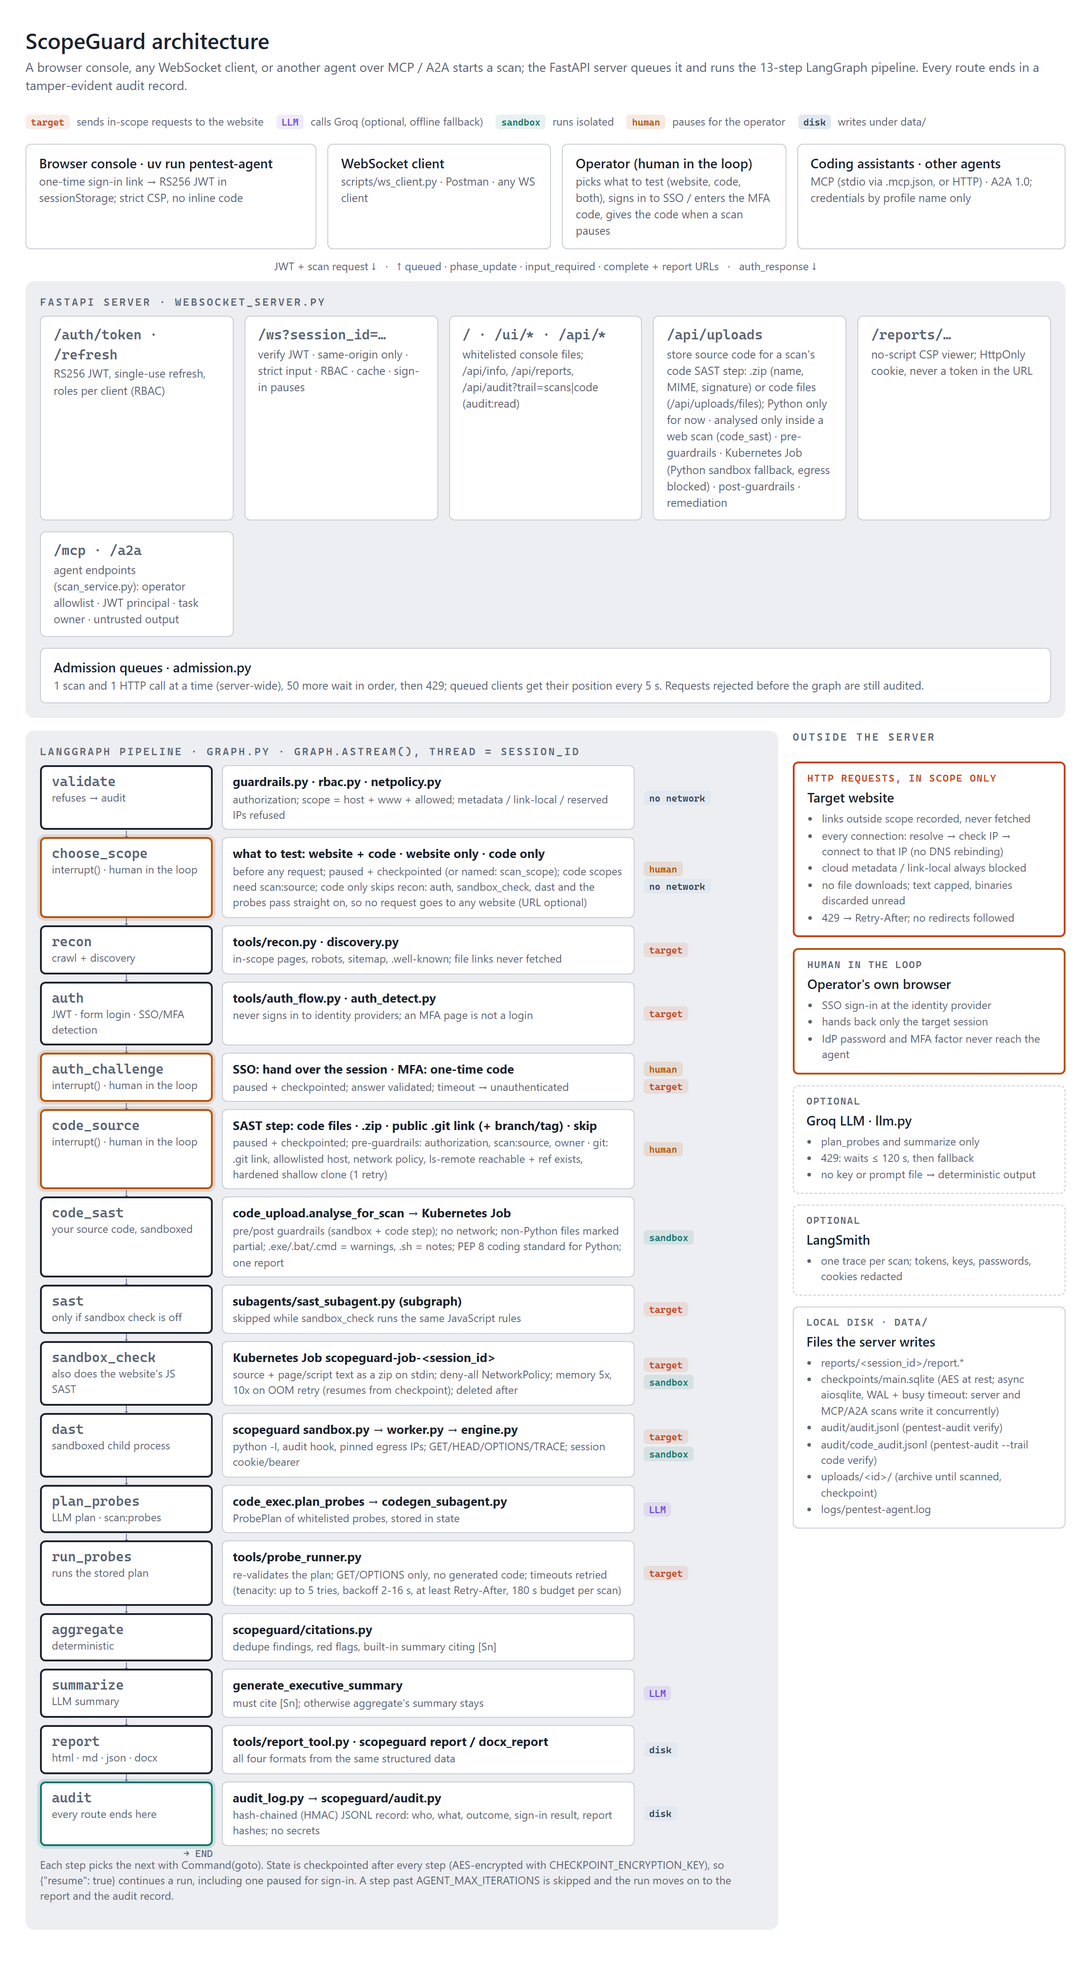
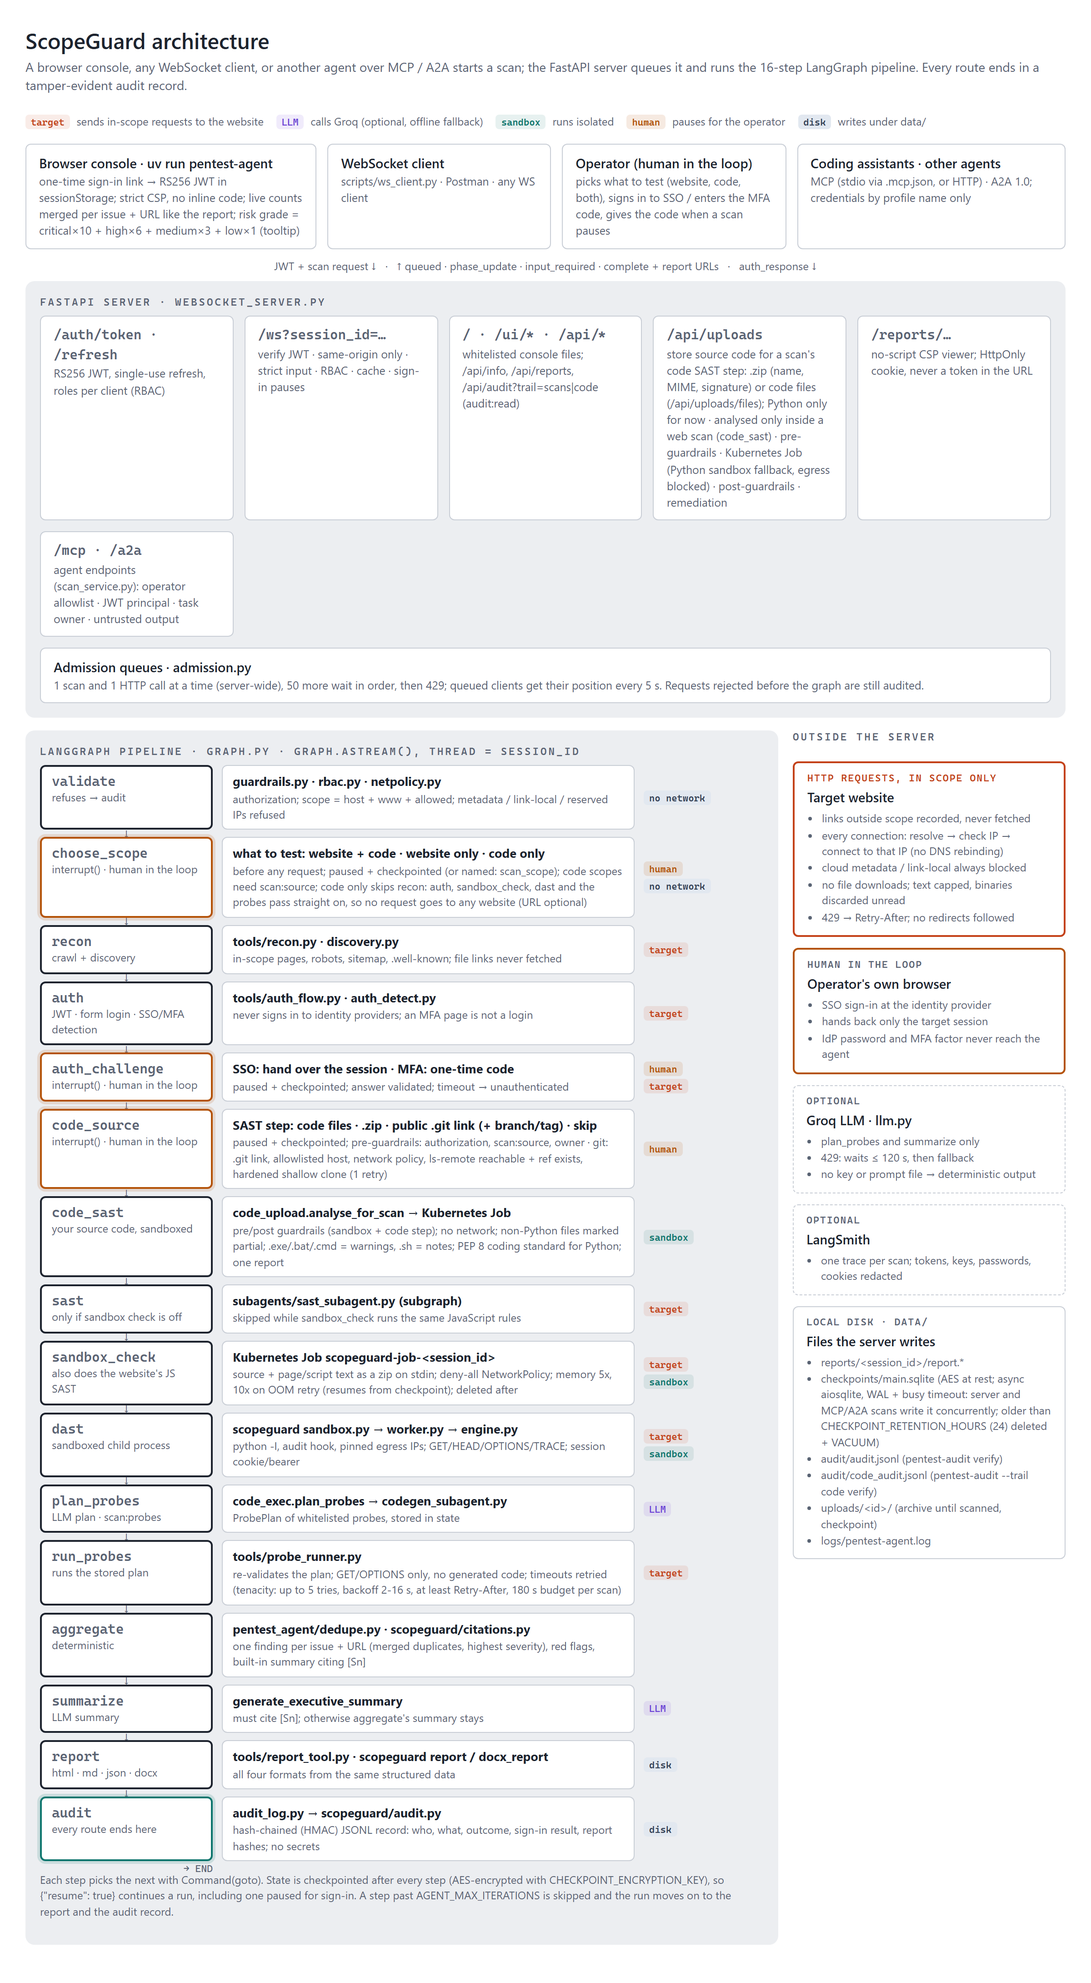
Delete old checkpoints periodically to keep the database small
The checkpoint database grew without limit (151 MB, 82 scan threads, 66
of them older than a day).

- cleanup_checkpoints deletes every scan thread whose newest checkpoint
  is older than CHECKPOINT_RETENTION_HOURS (24; 0 keeps everything), the
  pending writes of deleted threads, the sub-agent database's old threads
  and old code-check checkpoint files, then compacts the file (VACUUM)
- the age comes from the checkpoint id (UUIDv6), so it works on
  encrypted checkpoints without decrypting anything
- the server runs it at start and every CHECKPOINT_CLEANUP_INTERVAL_MINUTES
  (60); each MCP / A2A scan offers a round too (throttled per process,
  for the stdio MCP server), never touching a running scan; a failed
  cleanup is logged and never breaks a scan
- reports and audit records are kept; a deleted scan cannot be resumed
- tests: uuid6 time, old/protected/recent threads, compaction, retention 0,
  throttling, code-check files
- docs: README, CLAUDE.md, architecture diagram (+ the risk-grade and
  dedupe notes on the architecture and scan-story pages), .env.example

diff --git a/docs/src/architecture.html b/docs/src/architecture.html
@@ -58,7 +58,7 @@
 </head>
 <body>
   <h1>ScopeGuard architecture</h1>
-  <p class="sub">A browser console, any WebSocket client, or another agent over MCP / A2A starts a scan; the FastAPI server queues it and runs the 13-step LangGraph pipeline. Every route ends in a tamper-evident audit record.</p>
+  <p class="sub">A browser console, any WebSocket client, or another agent over MCP / A2A starts a scan; the FastAPI server queues it and runs the 16-step LangGraph pipeline. Every route ends in a tamper-evident audit record.</p>
   <div class="legend">
     <span><i class="tag web">target</i> sends in-scope requests to the website</span>
     <span><i class="tag llm">LLM</i> calls Groq (optional, offline fallback)</span>
@@ -68,7 +68,7 @@
   </div>
 
   <div class="row clients">
-    <div class="box"><b>Browser console · uv run pentest-agent</b><span>one-time sign-in link → RS256 JWT in sessionStorage; strict CSP, no inline code</span></div>
+    <div class="box"><b>Browser console · uv run pentest-agent</b><span>one-time sign-in link → RS256 JWT in sessionStorage; strict CSP, no inline code; live counts merged per issue + URL like the report; risk grade = critical×10 + high×6 + medium×3 + low×1 (tooltip)</span></div>
     <div class="box"><b>WebSocket client</b><span>scripts/ws_client.py · Postman · any WS client</span></div>
     <div class="box"><b>Operator (human in the loop)</b><span>picks what to test (website, code, both), signs in to SSO / enters the MFA code, gives the code when a scan pauses</span></div>
     <div class="box"><b>Coding assistants · other agents</b><span>MCP (stdio via .mcp.json, or HTTP) · A2A 1.0; credentials by profile name only</span></div>
@@ -141,7 +141,7 @@
         <div class="tags"><i class="tag web">target</i></div>
 
         <div class="node"><span class="t">aggregate</span><span>deterministic</span></div>
-        <div class="mod"><b>scopeguard/citations.py</b><span>dedupe findings, red flags, built-in summary citing [Sn]</span></div>
+        <div class="mod"><b>pentest_agent/dedupe.py · scopeguard/citations.py</b><span>one finding per issue + URL (merged duplicates, highest severity), red flags, built-in summary citing [Sn]</span></div>
         <div class="tags"></div>
 
         <div class="node"><span class="t">summarize</span><span>LLM summary</span></div>
@@ -182,7 +182,7 @@
       <div class="box disk"><div class="h">local disk · data/</div><b>Files the server writes</b>
         <ul>
           <li>reports/&lt;session_id&gt;/report.*</li>
-          <li>checkpoints/main.sqlite (AES at rest; async aiosqlite, WAL + busy timeout: server and MCP/A2A scans write it concurrently)</li>
+          <li>checkpoints/main.sqlite (AES at rest; async aiosqlite, WAL + busy timeout: server and MCP/A2A scans write it concurrently; older than CHECKPOINT_RETENTION_HOURS (24) deleted + VACUUM)</li>
           <li>audit/audit.jsonl (pentest-audit verify)</li>
           <li>audit/code_audit.jsonl (pentest-audit --trail code verify)</li>
           <li>uploads/&lt;id&gt;/ (archive until scanned, checkpoint)</li>

diff --git a/docs/src/scan-story.html b/docs/src/scan-story.html
@@ -130,7 +130,7 @@
     <div class="card"><span class="n">14</span><h3>The Prober</h3><code>run_probes</code><span class="chip c-web">visits your website</span>
       <p>Double-checks the plan, then runs those checks with reading requests only. If your site is slow to answer, it waits a little longer each time and tries again (up to 5 times); a check that still gets no answer is listed as not run. A resumed scan doesn't ask the AI again.</p></div>
     <div class="card"><span class="n">15</span><h3>The Collector</h3><code>aggregate</code>
-      <p>Gathers every finding, removes duplicates, notes what couldn't be tested, and writes a factual summary where each statement points to its source, like [S1].</p></div>
+      <p>Gathers every finding, removes duplicates (one issue on one page counts once, even when several helpers found it; the console's live counts and risk grade count the same way), notes what couldn't be tested, and writes a factual summary where each statement points to its source, like [S1].</p></div>
     <div class="card"><span class="n">16</span><h3>The AI writer</h3><code>summarize</code><span class="chip c-ai">uses the AI</span>
       <p>Drafts a friendlier executive summary, kept only if every claim cites a real finding; otherwise the Collector's summary stays.</p></div>
     <div class="card"><span class="n">17</span><h3>The Publisher</h3><code>report</code>

diff --git a/src/pentest_agent/checkpointer.py b/src/pentest_agent/checkpointer.py
@@ -13,11 +13,18 @@ sets the connection up for that:
 
 Within one connection the saver serialises its own operations (an ``asyncio.Lock``), so many
 scans can share it. Nothing in the code base opens the checkpoint database synchronously.
+
+Retention: ``cleanup_checkpoints`` deletes scan threads whose newest checkpoint is older than
+CHECKPOINT_RETENTION_HOURS (0 = keep all), at most every CHECKPOINT_CLEANUP_INTERVAL_MINUTES: the
+server runs it at start and then periodically, and every MCP / A2A scan run offers it too (the
+stdio MCP server has no lifespan). Then the file is compacted (VACUUM).
 """
 from __future__ import annotations
 
 import hashlib
 import logging
+import time
+import uuid
 from collections.abc import AsyncIterator
 from contextlib import asynccontextmanager
 from pathlib import Path
@@ -97,3 +104,120 @@ async def async_subagent_checkpointer(db_path: str | None = None) -> AsyncIterat
 
 def subagent_thread_id(session_id: str, subagent_name: str) -> str:
     return f"{session_id}::{subagent_name}"
+
+
+# ---------------------------------------------------------------------------
+# Retention: delete old checkpoints (CHECKPOINT_RETENTION_HOURS) to keep the database small
+# ---------------------------------------------------------------------------
+# 100-ns intervals between the UUID epoch (1582-10-15) and the Unix epoch.
+_UUID_EPOCH_OFFSET = 0x01B21DD213814000
+
+
+def checkpoint_time(checkpoint_id: str) -> float | None:
+    """Unix time of a LangGraph checkpoint id (a time-ordered UUIDv6), or None for another shape.
+    Works on encrypted checkpoints too: only the id is read, never the checkpoint."""
+    try:
+        value = uuid.UUID(str(checkpoint_id))
+    except ValueError:
+        return None
+    if value.version != 6:
+        return None
+    n = value.int
+    ticks = ((n >> 96) << 28) | (((n >> 80) & 0xFFFF) << 12) | ((n >> 64) & 0x0FFF)
+    return (ticks - _UUID_EPOCH_OFFSET) / 10_000_000
+
+
+def _db_bytes(db_path: str) -> int:
+    return sum(p.stat().st_size for p in Path(db_path).parent.glob(Path(db_path).name + "*") if p.is_file())
+
+
+async def prune_old_checkpoints(saver: AsyncSqliteSaver, max_age_hours: float, *,
+                                protect: frozenset[str] = frozenset()) -> int:
+    """Delete every scan thread (all its checkpoints, namespaces and pending writes) whose newest
+    checkpoint is older than ``max_age_hours``; 0 keeps everything. ``protect``: thread ids never
+    deleted (scans running right now). A deleted scan can no longer be resumed; its report and audit
+    record are kept. Returns the number of threads deleted; the file is compacted afterwards."""
+    if max_age_hours <= 0:
+        return 0
+    cutoff = time.time() - max_age_hours * 3600
+    async with saver.lock, saver.conn.execute(
+            "SELECT thread_id, MAX(checkpoint_id) FROM checkpoints GROUP BY thread_id") as cur:
+        rows = await cur.fetchall()
+    stale = [tid for tid, newest in rows
+             if tid not in protect and (at := checkpoint_time(newest)) is not None and at < cutoff]
+    for thread_id in stale:
+        await saver.adelete_thread(thread_id)
+    async with saver.lock:  # pending writes of threads that have no checkpoint left
+        await saver.conn.execute("DELETE FROM writes WHERE thread_id NOT IN (SELECT thread_id FROM checkpoints)")
+        await saver.conn.commit()
+    if stale:
+        await _compact(saver)
+    return len(stale)
+
+
+async def _compact(saver: AsyncSqliteSaver) -> None:
+    """Give the freed pages back to the file system: fold the WAL into the database, then VACUUM.
+    Another connection in a transaction makes VACUUM fail; then the space is reused by later
+    checkpoints instead (the next cleanup tries again)."""
+    async with saver.lock:
+        try:
+            await saver.conn.execute("PRAGMA wal_checkpoint(TRUNCATE)")
+            await saver.conn.execute("VACUUM")
+            await saver.conn.execute("PRAGMA wal_checkpoint(TRUNCATE)")
+        except aiosqlite.Error as exc:
+            logger.info("Checkpoint database not compacted this time (%s); freed space is reused", exc)
+
+
+def prune_codecheck_files(max_age_hours: float) -> int:
+    """Delete the code check's file-level checkpoints (``checkpoints/codecheck/<session>.json``,
+    tools/sandbox_check.codecheck_checkpoint_path) not touched for ``max_age_hours``."""
+    if max_age_hours <= 0:
+        return 0
+    folder = Path(settings.checkpoint_db_path).parent / "codecheck"
+    cutoff = time.time() - max_age_hours * 3600
+    removed = 0
+    for path in folder.glob("*.json") if folder.is_dir() else ():
+        try:
+            if path.is_file() and not path.is_symlink() and path.stat().st_mtime < cutoff:
+                path.unlink()
+                removed += 1
+        except OSError:
+            pass
+    return removed
+
+
+_last_cleanup: dict[str, float] = {}
+
+
+async def cleanup_checkpoints(saver: AsyncSqliteSaver, *, protect: frozenset[str] = frozenset(),
+                              force: bool = False) -> dict | None:
+    """One cleanup round (CHECKPOINT_RETENTION_HOURS): old scan threads in the main database, the
+    sub-agent database if it exists, old code-check files. At most once per
+    CHECKPOINT_CLEANUP_INTERVAL_MINUTES per process unless ``force``. Returns what was removed, or
+    None when it did not run. Never raises: a cleanup must not break a scan."""
+    hours = float(settings.checkpoint_retention_hours)
+    if hours <= 0:
+        return None
+    now = time.monotonic()
+    if not force and now - _last_cleanup.get("at", -1e12) < settings.checkpoint_cleanup_interval_minutes * 60:
+        return None
+    _last_cleanup["at"] = now
+    main_path = settings.checkpoint_db_path
+    before = _db_bytes(main_path)
+    result = {"threads": 0, "subagent_threads": 0, "codecheck_files": 0, "bytes_before": before}
+    try:
+        result["threads"] = await prune_old_checkpoints(saver, hours, protect=protect)
+        if Path(settings.subagent_checkpoint_db_path).is_file():
+            async with async_subagent_checkpointer() as sub:
+                result["subagent_threads"] = await prune_old_checkpoints(sub, hours)
+        result["codecheck_files"] = prune_codecheck_files(hours)
+    except Exception:
+        logger.exception("Checkpoint cleanup failed; it runs again later")
+        return None
+    result["bytes_after"] = _db_bytes(main_path)
+    if result["threads"] or result["subagent_threads"] or result["codecheck_files"]:
+        logger.info("Checkpoint cleanup (older than %sh): %d scan thread(s), %d sub-agent thread(s), "
+                    "%d code-check file(s) removed; database %.1f MB -> %.1f MB", f"{hours:g}",
+                    result["threads"], result["subagent_threads"], result["codecheck_files"],
+                    before / 1e6, result["bytes_after"] / 1e6)
+    return result

diff --git a/tests/test_checkpointer.py b/tests/test_checkpointer.py
@@ -109,3 +109,68 @@ async def test_checkpoints_are_encrypted_at_rest(tmp_path, monkeypatch):
 def test_without_a_key_checkpoints_stay_plaintext(monkeypatch):
     monkeypatch.setattr(settings, "checkpoint_encryption_key", "")
     assert cp.make_serde() is None
+
+
+# ---------------------------------------------------------------- retention (CHECKPOINT_RETENTION_HOURS)
+def test_checkpoint_time_reads_the_uuid6_id():
+    import time as _time
+
+    from langgraph.checkpoint.base.id import uuid6
+
+    assert abs(cp.checkpoint_time(str(uuid6())) - _time.time()) < 5
+    assert cp.checkpoint_time("not-a-uuid") is None
+    assert cp.checkpoint_time("12345678-1234-4234-8234-123456789abc") is None  # v4: no time in it
+
+
+async def test_old_threads_are_deleted_and_the_file_compacted(tmp_path, monkeypatch):
+    db = str(tmp_path / "main.sqlite")
+    monkeypatch.setattr(settings, "checkpoint_db_path", db)
+    monkeypatch.setattr(settings, "subagent_checkpoint_db_path", str(tmp_path / "absent.sqlite"))
+    monkeypatch.setattr(settings, "checkpoint_retention_hours", 24)
+    async with cp.async_main_checkpointer(db) as saver:
+        for thread in ("old-1", "old-2", "running", "fresh"):
+            await _counter_graph(saver, 40).ainvoke({"n": 0, "secret": "x" * 2000},
+                                                    {"configurable": {"thread_id": thread}})
+        # Two days later: every thread is older than 24 h, except "fresh", which ran just now.
+        later = cp.time.time() + 2 * 86400
+        monkeypatch.setattr(cp.time, "time", lambda: later)
+        monkeypatch.setattr(cp, "checkpoint_time",
+                            lambda cid, real=cp.checkpoint_time: real(cid) + (2 * 86400 if fresh_ids.get(cid) else 0))
+        async with saver.conn.execute("SELECT checkpoint_id FROM checkpoints WHERE thread_id='fresh'") as cur:
+            fresh_ids = {r[0]: True for r in await cur.fetchall()}
+        result = await cp.cleanup_checkpoints(saver, protect=frozenset({"running"}), force=True)
+        async with saver.conn.execute("SELECT DISTINCT thread_id FROM checkpoints") as cur:
+            left = {r[0] for r in await cur.fetchall()}
+        async with saver.conn.execute("SELECT COUNT(*) FROM writes WHERE thread_id LIKE 'old-%'") as cur:
+            writes_left = (await cur.fetchone())[0]
+    assert left == {"running", "fresh"} and writes_left == 0  # protected + recent stay
+    assert result["threads"] == 2 and result["bytes_after"] < result["bytes_before"]  # compacted
+
+
+async def test_retention_zero_keeps_everything_and_cleanup_is_throttled(tmp_path, monkeypatch):
+    db = str(tmp_path / "main.sqlite")
+    monkeypatch.setattr(settings, "checkpoint_db_path", db)
+    async with cp.async_main_checkpointer(db) as saver:
+        await _counter_graph(saver, 3).ainvoke({"n": 0}, {"configurable": {"thread_id": "t"}})
+        assert await cp.prune_old_checkpoints(saver, 0) == 0
+        monkeypatch.setattr(settings, "checkpoint_retention_hours", 0)
+        assert await cp.cleanup_checkpoints(saver, force=True) is None
+        monkeypatch.setattr(settings, "checkpoint_retention_hours", 24)
+        monkeypatch.setattr(cp, "_last_cleanup", {})
+        assert await cp.cleanup_checkpoints(saver) is not None   # first round runs
+        assert await cp.cleanup_checkpoints(saver) is None       # within the interval: skipped
+
+
+def test_old_codecheck_files_are_removed(tmp_path, monkeypatch):
+    import os
+    import time as _time
+
+    monkeypatch.setattr(settings, "checkpoint_db_path", str(tmp_path / "main.sqlite"))
+    folder = tmp_path / "codecheck"
+    folder.mkdir()
+    old, new = folder / "old.json", folder / "new.json"
+    old.write_text("{}"), new.write_text("{}")
+    os.utime(old, (_time.time() - 3 * 86400,) * 2)
+    assert cp.prune_codecheck_files(24) == 1
+    assert not old.exists() and new.exists()
+    assert cp.prune_codecheck_files(0) == 0

diff --git a/src/pentest_agent/scan_service.py b/src/pentest_agent/scan_service.py
@@ -42,7 +42,7 @@ from pydantic import ValidationError
 from pentest_agent import audit_log, rbac, tracing
 from pentest_agent import graph as graph_module
 from pentest_agent import scan_scope as scan_scope_mod
-from pentest_agent.checkpointer import async_main_checkpointer
+from pentest_agent.checkpointer import async_main_checkpointer, cleanup_checkpoints
 from pentest_agent.config import settings
 from pentest_agent.guardrails import (
     GuardrailViolation,
@@ -488,6 +488,10 @@ class ScanService:
         graph = None
         try:
             async with async_main_checkpointer(settings.checkpoint_db_path) as checkpointer:
+                # Old checkpoints out (at most every CHECKPOINT_CLEANUP_INTERVAL_MINUTES per process;
+                # the stdio MCP server has no lifespan to run it), never the scans running now.
+                await cleanup_checkpoints(checkpointer, protect=frozenset(
+                    r.scan_id for r in self._runs.values() if not r.done))
                 graph = graph_module.build_graph(checkpointer=checkpointer)
                 try:
                     with tracing.trace_scan(run.scan_id, run.target_url, run.profile):

diff --git a/src/pentest_agent/config.py b/src/pentest_agent/config.py
@@ -49,6 +49,11 @@ class Settings(BaseSettings):
     # Several async writers share the checkpoint file (the WebSocket server, each MCP / A2A scan):
     # a writer that finds it locked waits up to this long instead of failing (pentest_agent/checkpointer.py).
     checkpoint_busy_timeout_seconds: float = Field(default=30.0, ge=1.0, le=600.0)
+    # Retention: scan threads whose newest checkpoint is older than this are deleted (and the file
+    # compacted), with old code-check checkpoint files; 0 keeps everything. A deleted scan can no
+    # longer be resumed; reports and audit records stay. Checked every CHECKPOINT_CLEANUP_INTERVAL_MINUTES.
+    checkpoint_retention_hours: float = Field(default=24.0, ge=0.0, le=24 * 365)
+    checkpoint_cleanup_interval_minutes: int = Field(default=60, ge=1, le=24 * 60)
     # AES encryption at rest for checkpoints (LangGraph EncryptedSerializer).
     # Graph state holds the scan request (target JWT / login password), the
     # target session after sign-in and human-in-the-loop answers (MFA codes).

diff --git a/src/pentest_agent/websocket_server.py b/src/pentest_agent/websocket_server.py
@@ -238,6 +238,18 @@ async def lifespan(app: FastAPI):
         logger.info(
             "Pentest LangGraph initialized successfully."
         )
+
+        if _settings.checkpoint_retention_hours > 0:
+            # Old checkpoints out (CHECKPOINT_RETENTION_HOURS): now, then every interval.
+            async def _clean_checkpoints() -> None:
+                from pentest_agent.checkpointer import cleanup_checkpoints
+
+                while True:
+                    await cleanup_checkpoints(checkpointer, force=True)
+                    await asyncio.sleep(_settings.checkpoint_cleanup_interval_minutes * 60)
+
+            _BACKGROUND_TASKS.add(cleaner := asyncio.create_task(_clean_checkpoints()))
+            cleaner.add_done_callback(_BACKGROUND_TASKS.discard)
         for line in integrations_summary(settings.base_url()):
             logger.info(line)
 

diff --git a/README.md b/README.md
@@ -33,6 +33,11 @@ SQLite checkpoints (AES-encrypted with `CHECKPOINT_ENCRYPTION_KEY`) and the audi
 Checkpoints are written asynchronously (aiosqlite + LangGraph's `AsyncSqliteSaver`, no synchronous SQLite anywhere);
 the server and every MCP / A2A scan share the file through WAL mode with a busy timeout
 (`CHECKPOINT_BUSY_TIMEOUT_SECONDS`, 30), so concurrent scans wait for each other instead of failing with "database is locked".
+Old checkpoints are deleted to keep the database small: scan threads whose newest checkpoint is older than
+`CHECKPOINT_RETENTION_HOURS` (24; `0` keeps everything) go, with old code-check checkpoint files, and the file
+is compacted (VACUUM). The server checks at start and every `CHECKPOINT_CLEANUP_INTERVAL_MINUTES` (60); every
+MCP / A2A scan also offers a round (at most once per interval per process), never touching a running scan.
+A deleted scan can no longer be resumed; its report and audit record are kept.
 The diagrams are rendered from `docs/src/*.html` with `uv run python scripts/render_docs.py`. The same scan engine (`src/scopeguard/`) also runs
 standalone through `python -m scopeguard.cli`.
 
